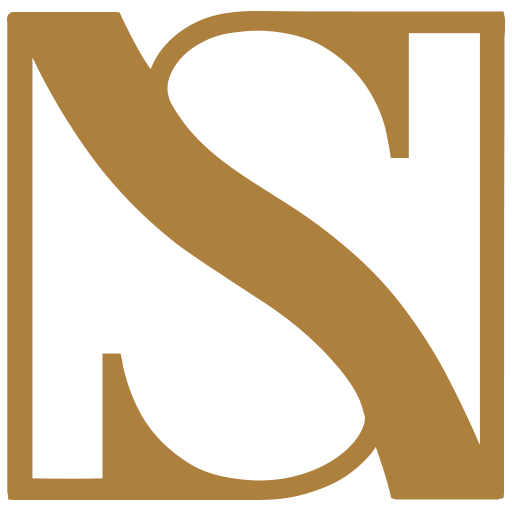
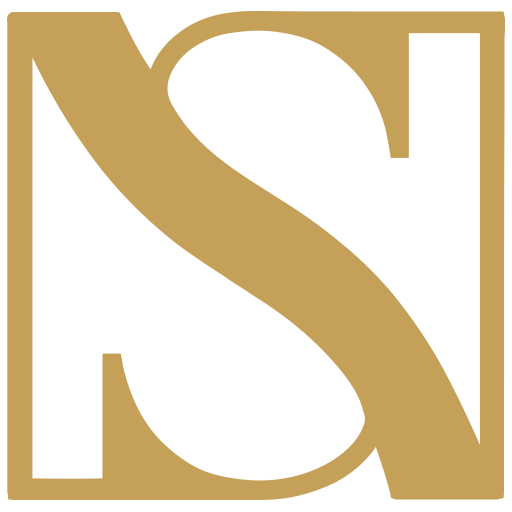
Add files via upload

diff --git a/app/polityka-prywatnosci/page.tsx b/app/polityka-prywatnosci/page.tsx
@@ -1,0 +1,112 @@
+import { Header } from "@/components/header";
+import { FooterSection } from "@/components/sections/footer-section";
+import { formatPolishText } from "@/lib/utils";
+
+export const metadata = {
+  title: "Polityka Prywatności | Nice Stamps",
+  description: "Polityka prywatności serwisu Nice Stamps. Dowiedz się, jak chronimy i przetwarzamy Twoje dane osobowe.",
+};
+
+export default function PrivacyPolicyPage() {
+  return (
+    <main className="bg-black min-h-screen">
+      <Header />
+      <div className="max-w-4xl mx-auto px-6 pt-40 pb-32 md:pt-48 md:pb-40">
+        <h1 className="text-4xl md:text-5xl font-bold text-white mb-4">
+          Polityka Prywatności
+        </h1>
+        <p className="text-sm text-gray-500 mb-12">Ostatnia aktualizacja: Maj 2026</p>
+
+        <section>
+          <h2 className="text-2xl font-semibold text-white mt-12 mb-6">
+            Administrator Danych Osobowych
+          </h2>
+          <p className="text-gray-400 leading-relaxed mb-6">
+            {formatPolishText(
+              "Administratorem Twoich danych osobowych jest firma Mikołaj Wojtkowiak MICKS, z siedzibą przy ul. Armii Krajowej 102, 61-381 Poznań, NIP: 7822433639. W sprawach związanych z przetwarzaniem i ochroną danych osobowych możesz kontaktować się z nami pod adresem e-mail: [email redacted] lub telefonicznie: [phone redacted]."
+            )}
+          </p>
+        </section>
+
+        <section>
+          <h2 className="text-2xl font-semibold text-white mt-12 mb-6">
+            Zakres, cel i podstawa prawna przetwarzania danych
+          </h2>
+          <p className="text-gray-400 leading-relaxed mb-6">
+            {formatPolishText(
+              "Przetwarzamy Twoje dane osobowe (imię, nazwisko, adres e-mail, nazwa firmy oraz ewentualny numer telefonu) przekazane dobrowolnie za pomocą formularza kontaktowego lub bezpośredniego kontaktu e-mail. Dane te są przetwarzane wyłącznie w celu:"
+            )}
+          </p>
+          <ul className="list-disc pl-6 text-gray-400 mb-6 space-y-2">
+            <li>Udzielenia odpowiedzi na przesłane zapytanie oraz prowadzenia korespondencji biznesowej.</li>
+            <li>Przedstawienia oferty handlowej na wyraźne żądanie Użytkownika.</li>
+          </ul>
+          <p className="text-gray-400 leading-relaxed mb-6">
+            {formatPolishText(
+              "Podstawą prawną przetwarzania danych jest podjęcie działań na żądanie osoby, której dane dotyczą, przed zawarciem umowy (art. 6 ust. 1 lit. b RODO) oraz nasz prawnie uzasadniony interes polegający na obsłudze zapytań (art. 6 ust. 1 lit. f RODO)."
+            )}
+          </p>
+        </section>
+
+        <section>
+          <h2 className="text-2xl font-semibold text-white mt-12 mb-6">
+            Odbiorcy danych
+          </h2>
+          <p className="text-gray-400 leading-relaxed mb-6">
+            {formatPolishText(
+              "Twoje dane osobowe traktujemy z najwyższą poufnością. Nie sprzedajemy ich i nie udostępniamy w celach marketingowych podmiotom trzecim. Odbiorcami danych mogą być jedynie zaufane podmioty przetwarzające dane na nasze polecenie w celu utrzymania infrastruktury technicznej (np. dostawcy usług hostingowych i poczty e-mail), na podstawie stosownych umów powierzenia."
+            )}
+          </p>
+        </section>
+
+        <section>
+          <h2 className="text-2xl font-semibold text-white mt-12 mb-6">
+            Okres przechowywania danych
+          </h2>
+          <p className="text-gray-400 leading-relaxed mb-6">
+            {formatPolishText(
+              "Twoje dane osobowe będą przechowywane przez okres niezbędny do obsługi zapytania i prowadzenia korespondencji, a następnie mogą być archiwizowane przez okres wymagany do obrony przed ewentualnymi roszczeniami prawnymi (zgodnie z obowiązującymi przepisami prawa)."
+            )}
+          </p>
+        </section>
+
+        <section>
+          <h2 className="text-2xl font-semibold text-white mt-12 mb-6">
+            Prawa Użytkownika
+          </h2>
+          <p className="text-gray-400 leading-relaxed mb-6">
+            Zgodnie z przepisami RODO, przysługuje Ci prawo do:
+          </p>
+          <ul className="list-disc pl-6 text-gray-400 mb-6 space-y-2">
+            <li>Dostępu do treści swoich danych oraz otrzymania ich kopii.</li>
+            <li>Sprostowania (poprawiania) swoich danych.</li>
+            <li>Żądania usunięcia danych (prawo do bycia zapomnianym).</li>
+            <li>Ograniczenia przetwarzania danych oraz wniesienia sprzeciwu wobec przetwarzania.</li>
+            <li>Przenoszenia danych.</li>
+          </ul>
+          <p className="text-gray-400 leading-relaxed mb-6">
+            {formatPolishText(
+              "W celu realizacji swoich praw, skontaktuj się z nami na adres: "
+            )}
+            <a href="mailto:[email redacted]" className="text-white hover:text-gray-300 transition-colors">[email redacted]</a>
+            {formatPolishText(
+              ". Przysługuje Ci również prawo wniesienia skargi do organu nadzorczego – Prezesa Urzędu Ochrony Danych Osobowych (PUODO)."
+            )}
+          </p>
+        </section>
+
+        <section>
+          <h2 className="text-2xl font-semibold text-white mt-12 mb-6">
+            Pliki Cookies i Śledzenie
+          </h2>
+          <p className="text-gray-400 leading-relaxed mb-6">
+            {formatPolishText(
+              "Szanujemy Twoją prywatność. Nasza strona ma charakter wizerunkowo-informacyjny i nie wykorzystuje inwazyjnych mechanizmów śledzących ani marketingowych plików cookies bez Twojej wyraźnej zgody."
+            )}
+          </p>
+        </section>
+      </div>
+      <FooterSection />
+    </main>
+  );
+}

diff --git a/app/layout.tsx b/app/layout.tsx
@@ -10,23 +10,6 @@ export const metadata: Metadata = {
   title: "Nice Stamps | Premium Bar Branding",
   description: "Personalizowane stemple do lodu, płyty barmańskie oraz ekskluzywne podkładki. Zbuduj bezkompromisowy wizerunek swojej marki w oczach gości.",
   generator: 'v0.app',
-  icons: {
-    icon: [
-      {
-        url: '/icon-light-32x32.png',
-        media: '(prefers-color-scheme: light)',
-      },
-      {
-        url: '/icon-dark-32x32.png',
-        media: '(prefers-color-scheme: dark)',
-      },
-      {
-        url: '/icon.svg',
-        type: 'image/svg+xml',
-      },
-    ],
-    apple: '/apple-icon.png',
-  },
 }
 
 export default function RootLayout({